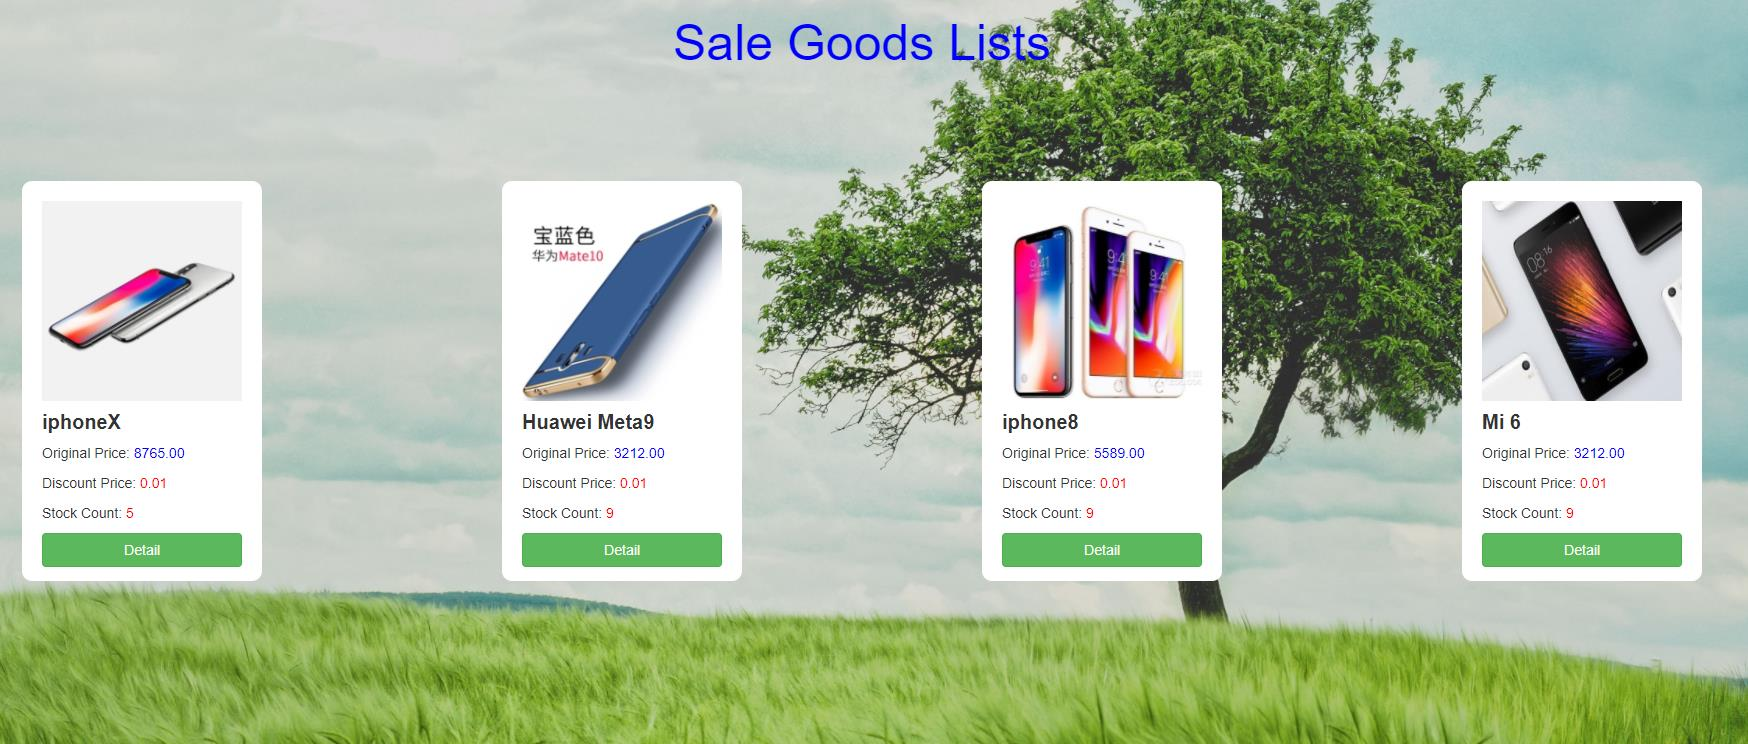
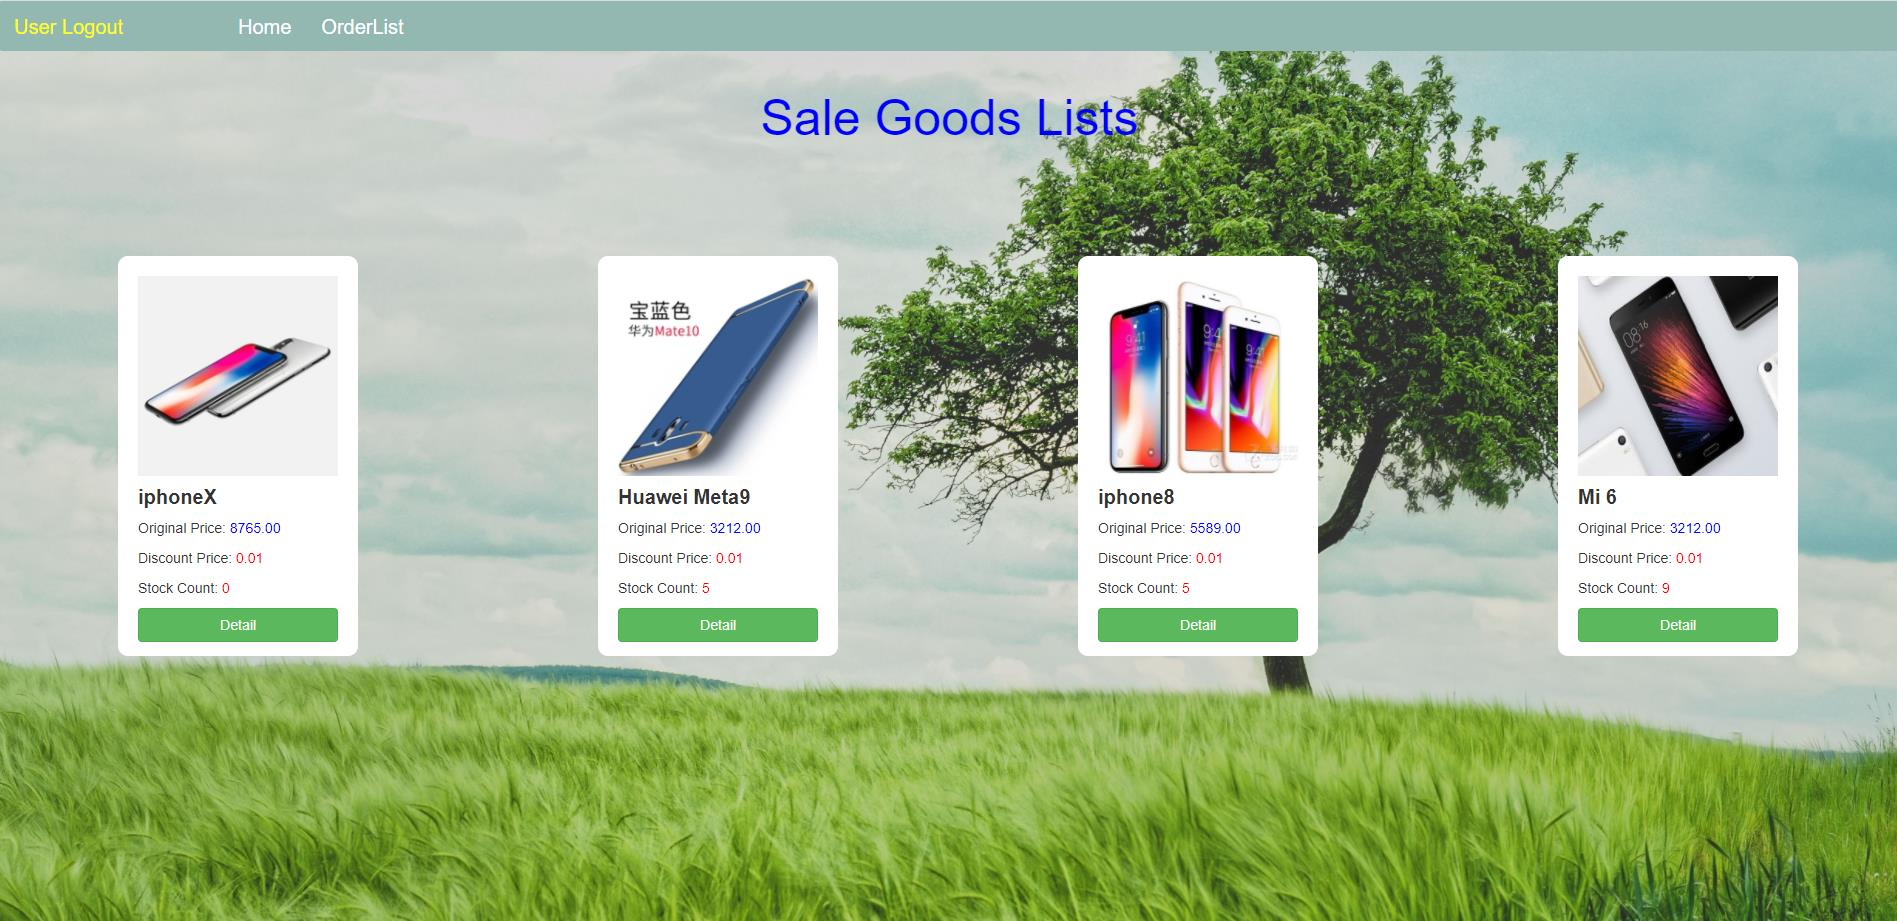
add logout

diff --git a/src/main/resources/templates/goods_list.html b/src/main/resources/templates/goods_list.html
@@ -23,8 +23,9 @@
 
 <body>
 <nav class="navbar" style="height: 50px;background: #92B8B1;margin-bottom: 0;" >
-    <a class="navbar-brand" href="/goods/to_list" style="font-size:20px;color:white;">Home</a>
-    <a class="navbar-brand" th:href="'/order/to_list/'"  style="font-size:20px;color:white;">OrderList</a>
+    <a class="navbar-brand" th:href="'/login/to_login/'"  style="font-size:20px;color:yellow;">User Logout</a>
+    <a class="navbar-brand" href="/goods/to_list" style="padding-left:100px; font-size:20px;color:white;">Home</a>
+    <a class="navbar-brand" th:href="'/order/to_list/'"  style=" font-size:20px;color:white;">OrderList</a>
 </nav>
 <div class="warp login_wrap">
 <h1 style="font-size:50px;color:blue;text-align: center;margin-top: 0;padding-top: 40px;">Sale Goods Lists</h1>

diff --git a/src/main/resources/templates/order_list.html b/src/main/resources/templates/order_list.html
@@ -23,8 +23,9 @@
 
 <body>
 <nav class="navbar" style="height: 50px;background: #92B8B1;margin-bottom: 0;" >
-    <a class="navbar-brand" href="/goods/to_list" style="font-size:20px;color:white;">Home</a>
-    <a class="navbar-brand" th:href="'/order/to_list/'"  style="font-size:20px;color:white;">OrderList</a>
+    <a class="navbar-brand" th:href="'/login/to_login/'"  style="font-size:20px;color:yellow;">User Logout</a>
+    <a class="navbar-brand" href="/goods/to_list" style="padding-left:100px; font-size:20px;color:white;">Home</a>
+    <a class="navbar-brand" th:href="'/order/to_list/'"  style=" font-size:20px;color:white;">OrderList</a>
 </nav>
 <div class="warp login_wrap">
 <h1 style="font-size:50px;color:blue;text-align: center;margin-top: 0;padding-top: 40px;">Order Lists</h1>
